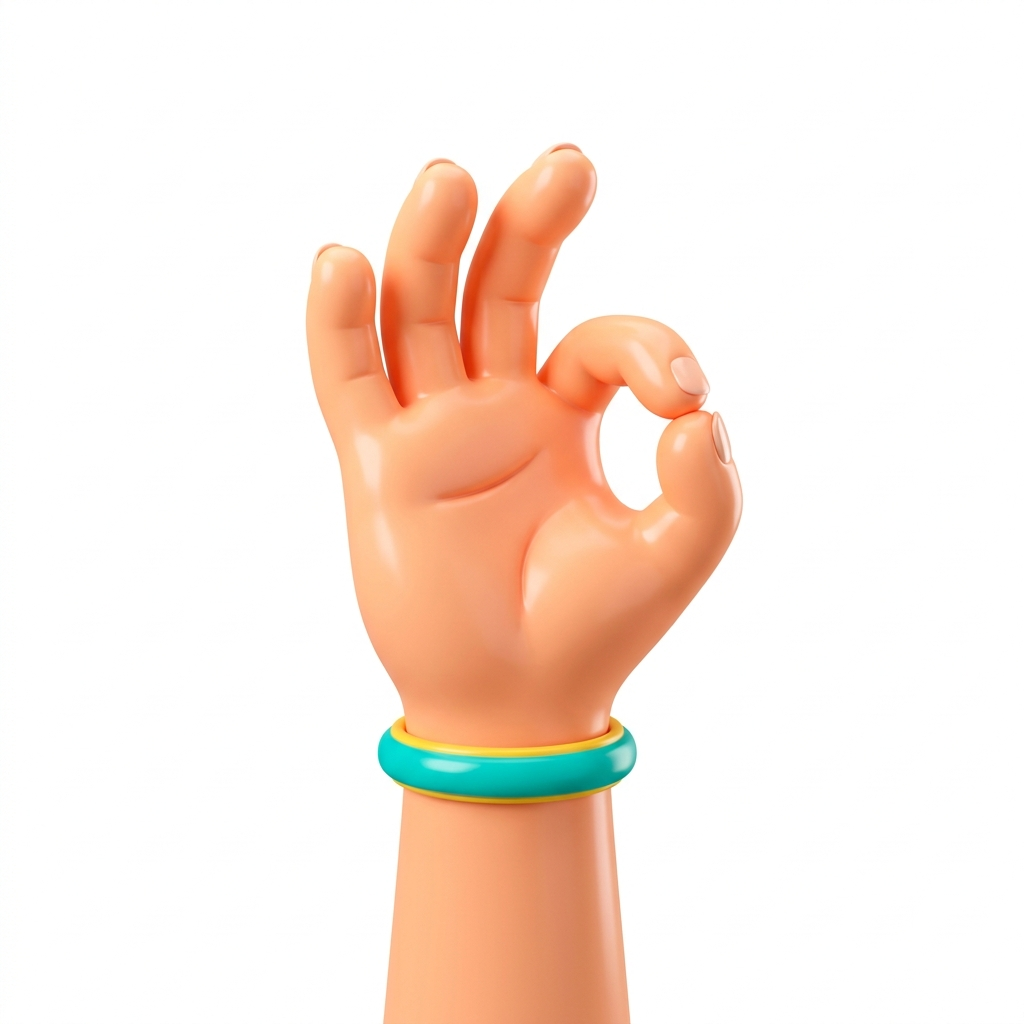
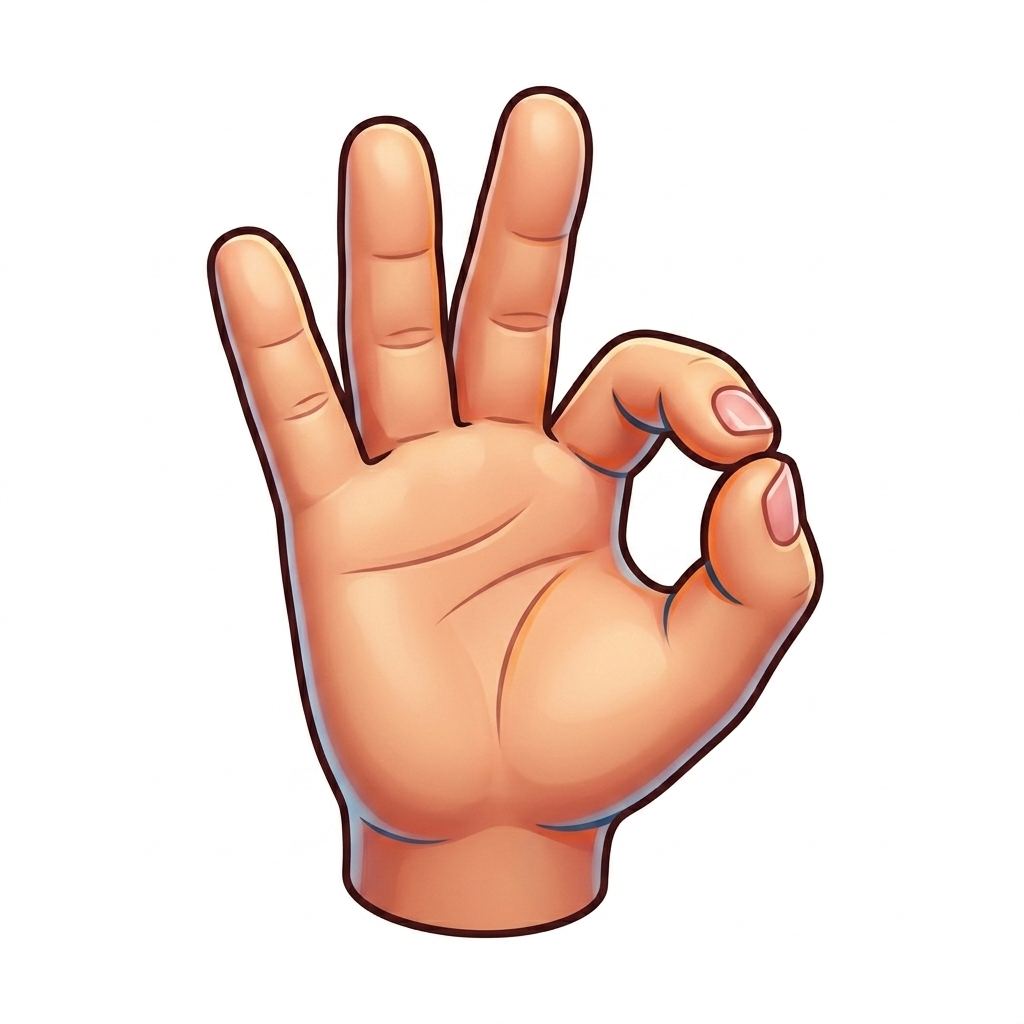
feat(assets): update gesture_ok image to match exact style of other gesture assets and enhance countdown focus stage

Changed region(s): [[0.1875, 0.0625, 0.8125, 1.0]]

diff --git a/states/game.py b/states/game.py
@@ -403,20 +403,36 @@ class GestureMemoryGame:
                 card.draw(screen, show_face=True)
                 
         elif self.state == "COUNTDOWN":
-            for card in self.cards:
-                card.draw(screen, show_face=False)
-                
+            # 1. Hide cards completely (Do not draw cards during countdown)
             cd_overlay = pygame.Surface((WIDTH, HEIGHT), pygame.SRCALPHA)
-            cd_overlay.fill((15, 23, 42, 160))
+            cd_overlay.fill((15, 23, 42, 225))
             screen.blit(cd_overlay, (0, 0))
             
-            pulse = 1.0 + (math.sin(time.time() * 12) * 0.15)
-            cd_size = int(120 * pulse)
-            cd_surf = render_thai_text(str(self.countdown_num), font_size=cd_size, color=ACCENT_AMBER)
-            screen.blit(cd_surf, cd_surf.get_rect(center=(WIDTH // 2, HEIGHT // 2 - 20)))
+            # 2. Glowing Circular Countdown Stage
+            now = time.time()
+            pulse = 1.0 + (math.sin(now * 14) * 0.12)
+            cx, cy = WIDTH // 2, HEIGHT // 2 - 20
             
-            sub_cd = render_thai_text("เตรียมพร้อม...", font_size=36, color=TEXT_WHITE)
-            screen.blit(sub_cd, sub_cd.get_rect(center=(WIDTH // 2, HEIGHT // 2 + 90)))
+            # Outer expanding glow rings
+            pygame.draw.circle(screen, (245, 158, 11, 40), (cx, cy), int(130 * pulse), width=4)
+            pygame.draw.circle(screen, (245, 158, 11, 80), (cx, cy), int(105 * pulse), width=6)
+            pygame.draw.circle(screen, (30, 41, 59), (cx, cy), 85)
+            pygame.draw.circle(screen, ACCENT_AMBER, (cx, cy), 85, width=4)
+            
+            # Big Dynamic Number (3, 2, 1)
+            cd_text = str(self.countdown_num) if self.countdown_num > 0 else "GO!"
+            cd_size = int(88 * pulse) if self.countdown_num > 0 else int(72 * pulse)
+            cd_color = ACCENT_AMBER if self.countdown_num > 0 else ACCENT_EMERALD
+            cd_surf = render_thai_text(cd_text, font_size=cd_size, color=cd_color)
+            screen.blit(cd_surf, cd_surf.get_rect(center=(cx, cy)))
+            
+            # Subtitle Message
+            sub_cd = render_thai_text("เตรียมพร้อม... การ์ดกำลังจะสลับปิด!", font_size=28, color=TEXT_WHITE)
+            screen.blit(sub_cd, sub_cd.get_rect(center=(cx, cy + 130)))
+            
+            # Gesture Ready Badge
+            g_badge = render_thai_text(f"เตรียมทำท่า: {self.selected_gesture['name']}", font_size=22, color=self.selected_gesture["color"])
+            screen.blit(g_badge, g_badge.get_rect(center=(cx, cy + 175)))
             
         elif self.state == "PLAY":
             t_banner = pygame.Surface((680, 85), pygame.SRCALPHA)
